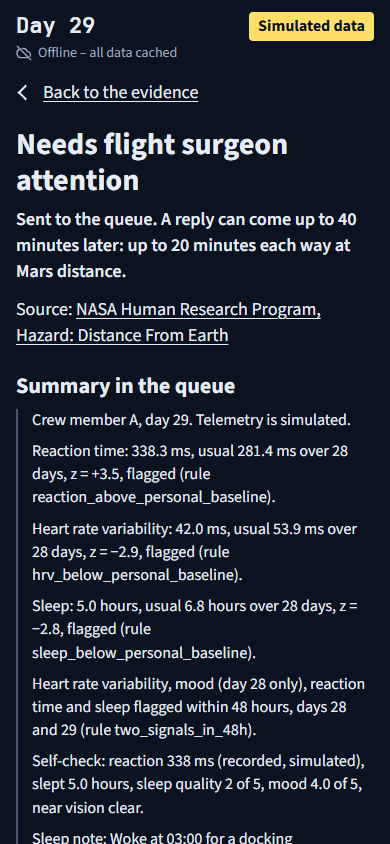
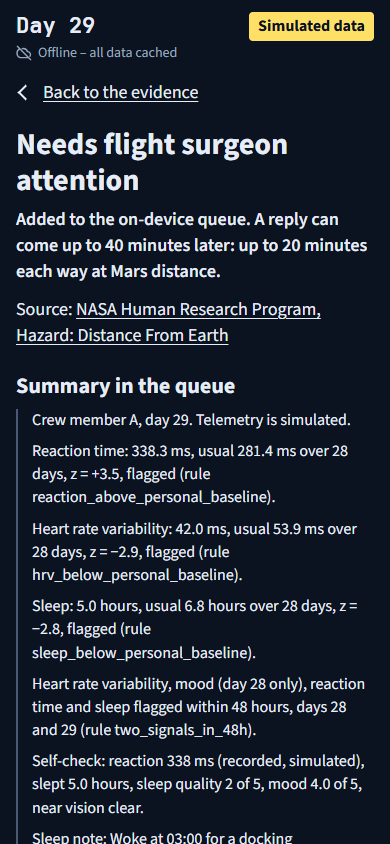
Queue says on-device; crew rows count flags as the phone does; DESIGN.md screenshot line (audit 11 Nov A5, A6, rank 10)

Changed region(s): [[0.0308, 0.2464, 0.9538, 0.3389]]

diff --git a/app.js b/app.js
@@ -871,7 +871,10 @@ function renderCrew() {
     Object.assign(state, data);
     const list = flagsFor(TODAY), top = list[0], li = document.createElement("li"), name = document.createElement("div"), text = document.createElement("div");
     li.className = `crew-row ${top ? `flagged ${top.status}` : ""}`;
-    name.append(make("strong", `Crew member ${who}`), make("span", `${list.length} ${list.length === 1 ? "flag" : "flags"}`, "crew-count"));
+    // Count as the phone's console does (renderConsole): single readings only, not the 48-hour row; a reading still
+    // being watched is shown apart, not counted as a flag.
+    const flagged = list.filter((r) => r.signal && r.status === "confirmed").length, watching = list.filter((r) => r.signal && r.status === "watch").length;
+    name.append(make("strong", `Crew member ${who}`), make("span", `${flagged} ${flagged === 1 ? "flag" : "flags"}${watching ? ` · ${watching} watching` : ""}`, "crew-count"));
     text.className = "crew-flag";
     if (top) text.append(make("span", title(top), "flag-name"), monoNums(make("span", flagLine(top), "flag-line")), make("span", plainStatus(top), "flag-status"));
     text.append(make("span", top ? "Awaiting flight surgeon" : "No flags today", "flag-status"));

diff --git a/index.html b/index.html
@@ -609,7 +609,7 @@ fieldset { border: 0; padding: 0; margin: 28px 0 0; min-width: 0; }
 <section id="queue" aria-labelledby="queue-title" hidden>
   <button class="text-button back" type="button" data-go="evidence">Back to the evidence</button>
   <h1 id="queue-title" tabindex="-1">Needs flight surgeon attention</h1>
-  <p class="sent">Sent to the queue. A reply can come up to 40 minutes later: up to 20 minutes each way at Mars distance.</p>
+  <p class="sent">Added to the on-device queue. A reply can come up to 40 minutes later: up to 20 minutes each way at Mars distance.</p>
   <p class="cite">Source: <a href="https://www.nasa.gov/hrp/hazard-distance-from-earth/" target="_blank" rel="noopener noreferrer">NASA Human Research Program, Hazard: Distance From Earth</a></p>
   <h2>Summary in the queue</h2>
   <div id="message" class="message"></div>
@@ -660,6 +660,6 @@ fieldset { border: 0; padding: 0; margin: 28px 0 0; min-width: 0; }
 <script src="spe.js?v=8dc481d0f5"></script>
 <script src="reaction.js?v=0c373ca889"></script>
 <script src="store.js?v=cb99d76b39"></script>
-<script src="app.js?v=b91d9713e2"></script>
+<script src="app.js?v=6b73518f82"></script>
 </body>
 </html>
